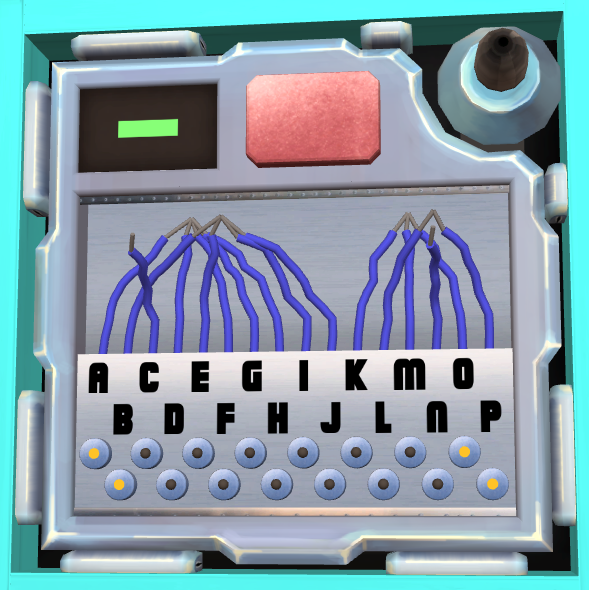
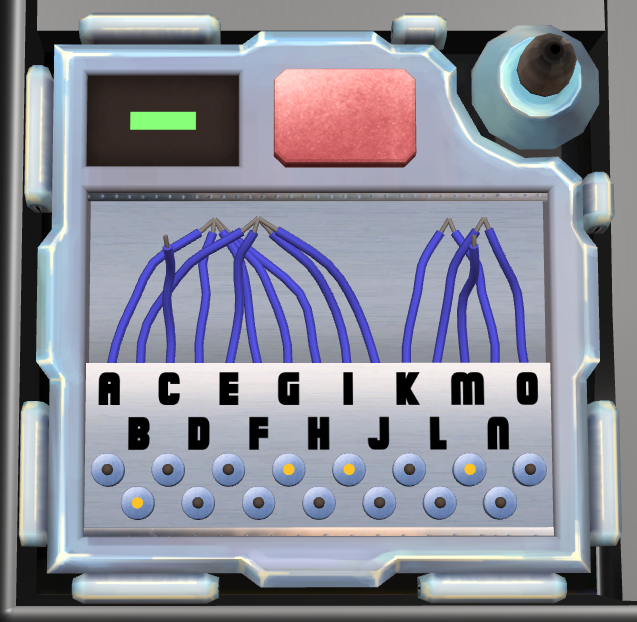
Improvements to wire mesh generator, update preview images accordingly

diff --git a/Assets/Scripts/WireMeshGenerator.cs b/Assets/Scripts/WireMeshGenerator.cs
@@ -15,23 +15,24 @@ namespace WireAssociation
         const double _wireMinBézierDeviation = .0025;
         const double _wireMaxBézierDeviation = .005;
 
-        public static WireMeshes GenerateWire(double startX, double endX, double angle, bool top, bool highlight, int seed)
+        public static WireMeshes GenerateWire(double startX, double endX, double angle, bool isAtTop, bool highlight, int seed)
         {
-            const int bézierSteps = 4;
-            const int tubeRevSteps = 12;
-            const int subdivisions = 2;
-            const int reserveForCopper = 2;
+            const int bézierSteps = 6;
+            const int tubeRevSteps = 7;
+            const int subdivisions = 1;
+            const int reserveForCopper = 1;
 
-            var bottom = top ? .05 : -.05;
+            var bottom = isAtTop ? .05 : -.05;
+            var top = isAtTop ? -.001f : .001f;
 
             var rnd = new Rnd(seed);
 
             // Generate outer Bézier curve and subdivide it
-            var start = pt(startX, 0, 0);
+            var start = pt(startX, 0, top);
             var end = pt(endX, 0, bottom);
             var startControl = pt(startX, 0, bottom / 2);
             var endControl = ((end + startControl) / 2);
-            var rAngle = top ? -angle : angle;
+            var rAngle = isAtTop ? -angle : angle;
             endControl = endControl.Rotate(pt(0, 0, 0), pt(1, 0, 0), rAngle);
             end = end.Rotate(pt(0, 0, 0), pt(1, 0, 0), rAngle);
             var curve = new[] { start, startControl, endControl, end };
@@ -40,27 +41,22 @@ namespace WireAssociation
                 curve = Enumerable.Range(0, (curve.Length - 1) / 3).SelectMany(sgm => subdivide(curve.Subarray(3 * sgm, 4))).Concat(new[] { end }).ToArray();
 
             // Apply deviations
-            for (var i = 3; i < curve.Length - 1; i += 3)
+            for (var i = 0; i < curve.Length; i += 3)
             {
-                var deviation = pt(rnd.NextDouble(), rnd.NextDouble(), rnd.NextDouble()).Normalize() * (rnd.NextDouble() * (_wireMaxBézierDeviation - _wireMinBézierDeviation) + _wireMinBézierDeviation);
-                curve[i - 1] += deviation;
-                curve[i + 1] -= deviation;
+                var deviation = pt(rnd.NextDouble() - .5, rnd.NextDouble() - .5, rnd.NextDouble() - .5).Normalize() * (rnd.NextDouble() * (_wireMaxBézierDeviation - _wireMinBézierDeviation) + _wireMinBézierDeviation);
+                if (i > 0)
+                    curve[i - 1] += deviation;
+                if (i < curve.Length - 1)
+                    curve[i + 1] -= deviation;
             }
 
             // Generate inner Bézier curves
             var points = Enumerable.Range(0, (curve.Length - 1) / 3).SelectMany(ix => bézier(curve[3 * ix], curve[3 * ix + 1], curve[3 * ix + 2], curve[3 * ix + 3], bézierSteps).SkipLast(1)).Concat(new[] { end }).ToArray();
 
-            var generateEndCap = new Func<Pt, Pt, VertexInfo[], VertexInfo[][]>((sndLast, last, lastCircle) =>
-            {
-                var capCenter = last;
-                var normal = capCenter - sndLast;
-                return lastCircle.SelectConsecutivePairs(true, (v1, v2) => new[] { capCenter, v2.Point, v1.Point }.Select(p => new VertexInfo { Point = p, Normal = normal }).ToArray()).ToArray();
-            });
-
             var generateMeshWithThickness = new Func<double, Pt[], Mesh>((thickness, pts) =>
             {
                 var mainWire = tubeFromCurve(pts, thickness, tubeRevSteps);
-                var endCap = generateEndCap(pts[pts.Length - 2], pts[pts.Length - 1], mainWire[mainWire.Length - 1]);
+                var endCap = mainWire[mainWire.Length - 1].SelectConsecutivePairs(true, (v1, v2) => (new[] { pts[pts.Length - 1], v2.Point, v1.Point }).Select(p => new VertexInfo { Point = p, Normal = pts[pts.Length - 1] - pts[pts.Length - 2] }).ToArray()).ToArray();
                 return toMesh(createFaces(false, true, mainWire).Concat(endCap).ToArray());
             });
 
@@ -68,7 +64,7 @@ namespace WireAssociation
             {
                 Wire = generateMeshWithThickness(_wireRadius, points.Subarray(0, points.Length - reserveForCopper)),
                 Highlight = generateMeshWithThickness(_wireRadiusHighlight, points.Subarray(0, points.Length - reserveForCopper)),
-                Copper = generateMeshWithThickness(_wireRadius / 2, points.Subarray(points.Length - reserveForCopper - 1, reserveForCopper + 1))
+                Copper = generateMeshWithThickness(_wireRadius / 2, points.Subarray(points.Length - reserveForCopper - 2, reserveForCopper + 2))
             };
         }
 

diff --git a/Assets/Scripts/WireAssociationModule.cs b/Assets/Scripts/WireAssociationModule.cs
@@ -3,6 +3,7 @@ using System.Collections;
 using System.Collections.Generic;
 using System.IO;
 using System.Linq;
+using System.Text.RegularExpressions;
 using UnityEngine;
 using WireAssociation;
 using Rnd = UnityEngine.Random;
@@ -104,6 +105,7 @@ public class WireAssociationModule : MonoBehaviour
 
         SubmitButton.OnInteract = Submit;
         Destroy(Dummy);
+        DisplayText.text = "";
         StartCoroutine(Setup(0, firstRun: true));
     }
 
@@ -132,13 +134,15 @@ public class WireAssociationModule : MonoBehaviour
         SubmitButton.AddInteractionPunch(.2f);
         Audio.PlayGameSoundAtTransform(KMSoundOverride.SoundEffect.BigButtonPress, SubmitButton.transform);
         if (_animating == 0 && !_isSolved && _stage < 2)
+        {
+            DisplayText.text = "";
             StartCoroutine(Setup(_stage + 1));
+        }
         return false;
     }
 
     private IEnumerator Setup(int newStage, bool firstRun = false)
     {
-        DisplayText.text = "";
         _animating++;
         if (newStage == 0)
         {
